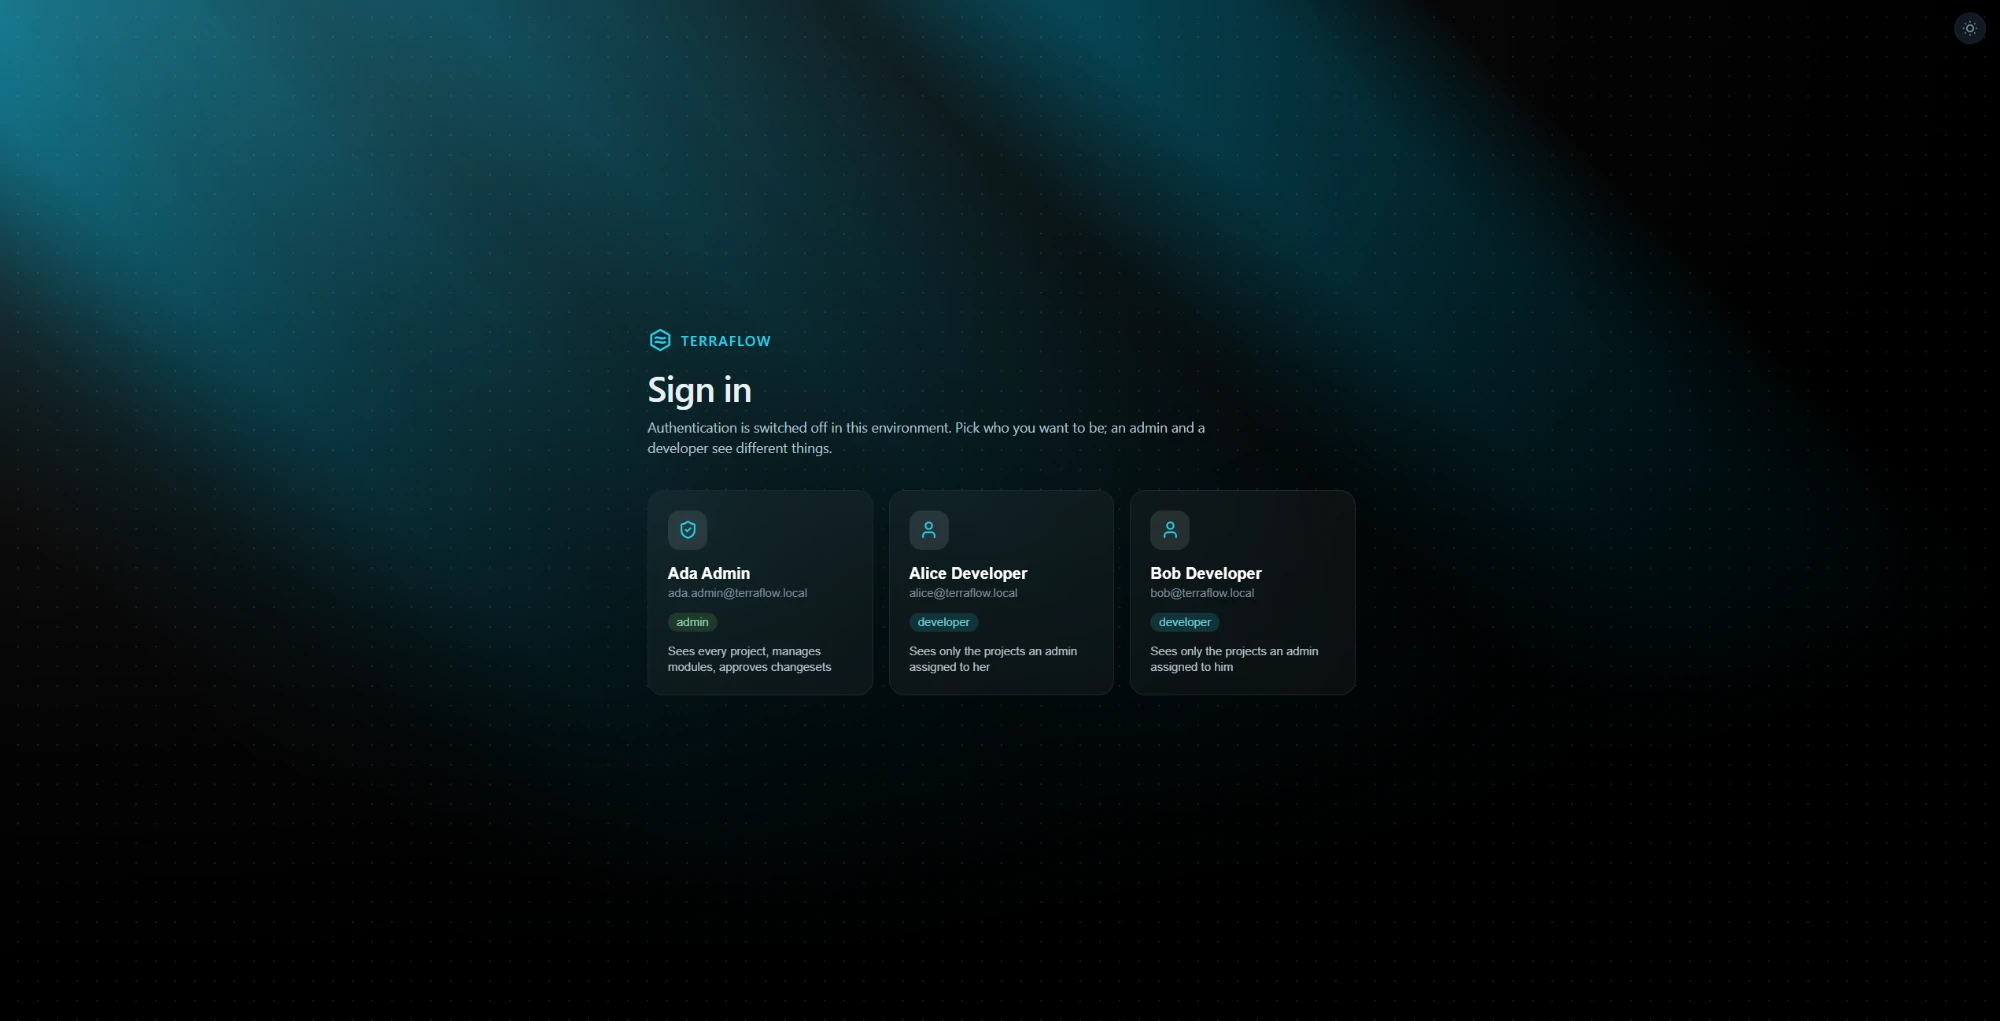
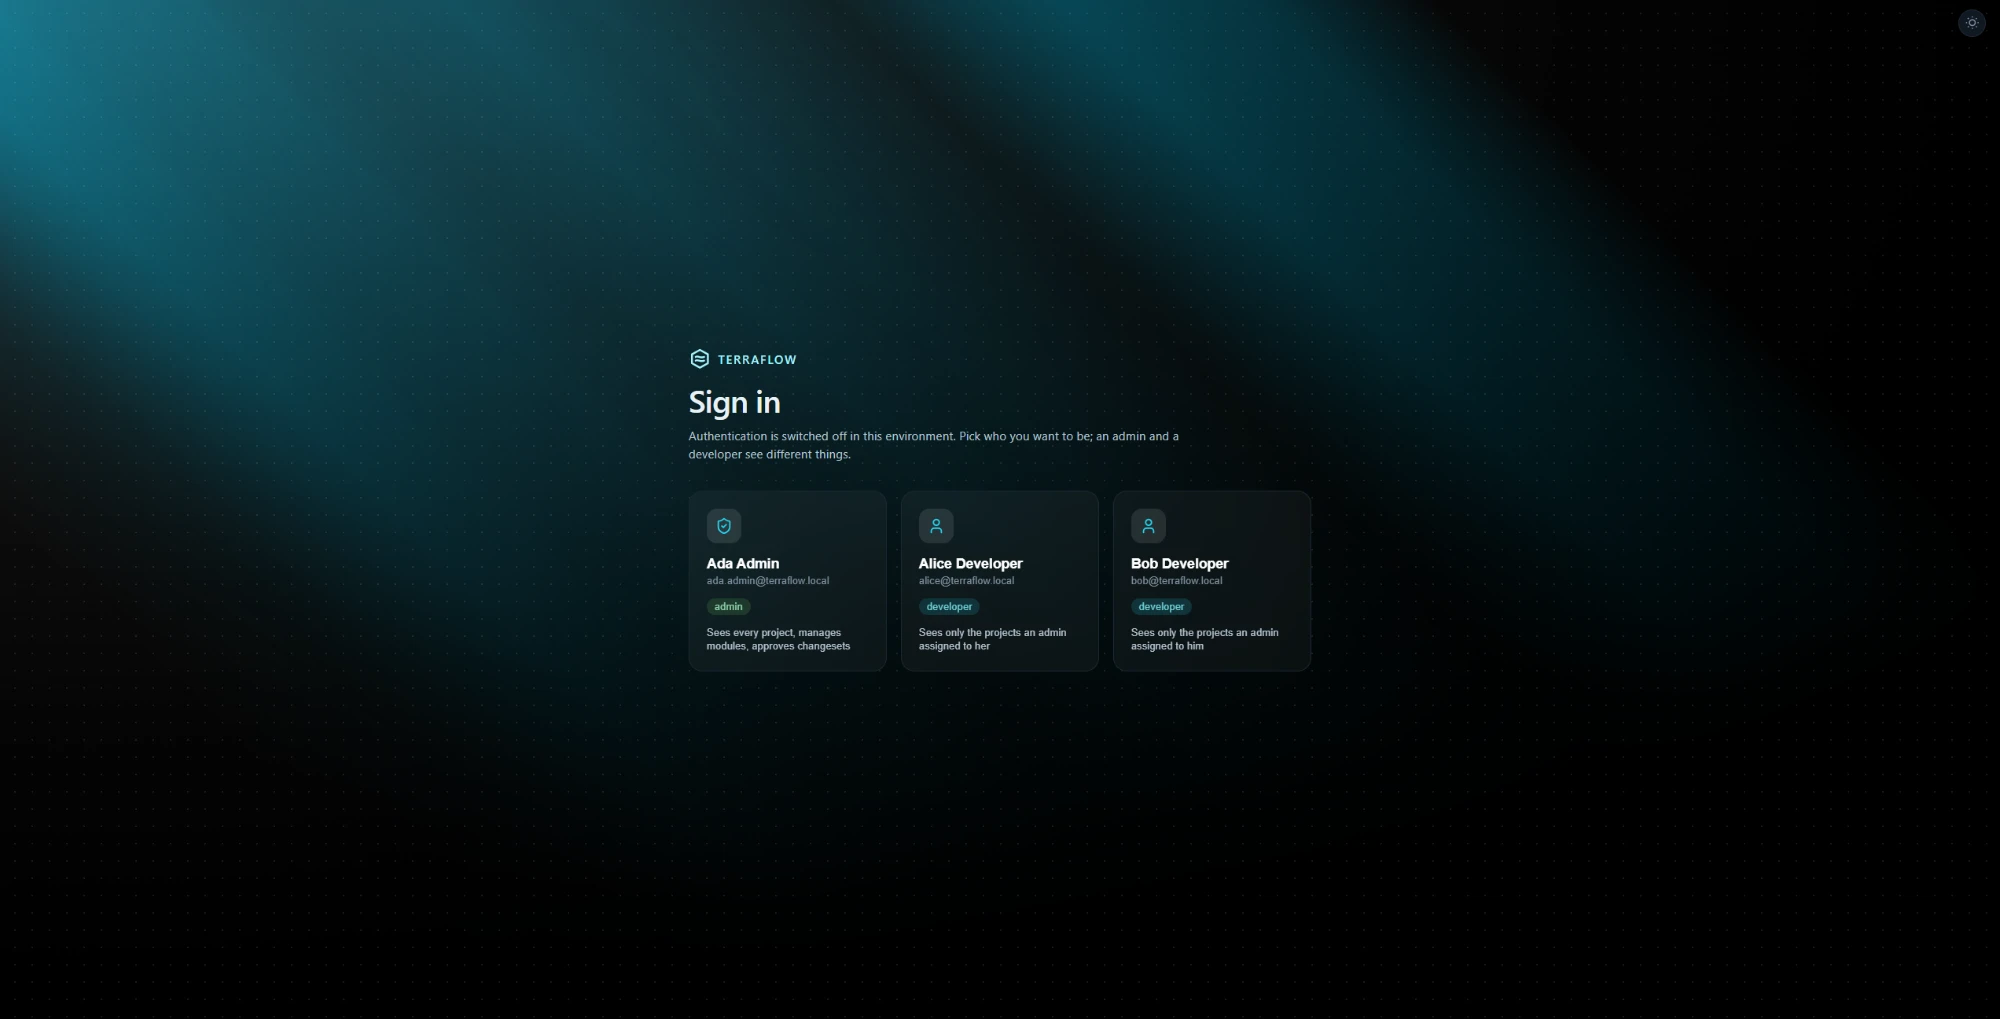
docs: refresh README and screenshots
New README with a workflow diagram, a grouped screen tour and the
current features; 19 screenshots replace the 7 old ones.

diff --git a/README.md b/README.md
@@ -1,55 +1,133 @@
+<div align="center">
+
 # TerraFlow
 
-A visual, drag-and-drop portal for Azure infrastructure. Developers compose
-resources from an **approved module catalog**, a DevOps reviewer approves, and
-TerraFlow generates Terraform **module calls** in the team's own style and opens a
-**branch** on the project's git repository (GitHub first, D-049).
+**Drag. Review. Branch.**<br>
+A visual portal that turns an approved module catalog into Terraform module calls, and stops at a branch.
 
-**The app's job ends at the branch.** The pull request, pipeline, plan and apply
-stay with DevOps in the git provider. TerraFlow never calls Azure and holds no write
-credentials.
+![Phase](https://img.shields.io/badge/phase-8%20%C2%B7%20GitHub-22d3ee?style=flat-square)
+![Go](https://img.shields.io/badge/Go-backend-00ADD8?style=flat-square&logo=go&logoColor=white)
+![React](https://img.shields.io/badge/React-TypeScript-61DAFB?style=flat-square&logo=react&logoColor=black)
+![Terraform](https://img.shields.io/badge/Terraform-module%20calls-844FBA?style=flat-square&logo=terraform&logoColor=white)
+![Azure first](https://img.shields.io/badge/azurerm-first%2C%20not%20hardcoded-0078D4?style=flat-square)
 
-## Project overview
+<br>
 
+<img src="docs/screenshots/04-canvas.webp" alt="The TerraFlow canvas: a module palette on the left, a resource group on the canvas, a schema-driven form on the right" width="900">
+
+</div>
+
+<br>
+
+## What it is
+
+People compose infrastructure from an **approved module catalog**. A reviewer (the project owner or a co-owner) approves.
+TerraFlow then writes Terraform **module calls** in the team's own style and opens a **branch** on the project's GitHub repository.
+
+> **The job ends at the branch.** The pull request, pipeline, plan and apply stay with the team in the git provider.
+> TerraFlow never calls Azure and holds no Azure credential.
+
+```mermaid
+flowchart LR
+    A["<b>Build</b><br/>drag modules onto the canvas,<br/>fill schema-driven forms"] --> B["<b>Save and publish</b><br/>a named version<br/>goes for review"]
+    B --> C{"<b>Review</b><br/>canvas changes and<br/>the exact .tf diff"}
+    C -- approve --> D["<b>Branch</b><br/>generated module calls<br/>on your repository"]
+    C -- "reject, with a reason" --> A
+    D --> E["PR, pipeline, plan, apply<br/><i>done by your team</i>"]
 ```
- Developer                    Reviewer (DevOps)               Git repository
- ─────────                    ─────────────────               ─────────────────
- drag modules onto            see canvas changes and          a branch with the
- the canvas, fill the   ──►   the exact .tf diff,       ──►   generated module calls;
- schema-driven forms          approve or reject               PR / pipeline are DevOps'
- Save a version, Publish      (with a reason)
-```
 
-| Idea | What it means |
+## Why it is built this way
+
+| | |
 |---|---|
-| **Schema-driven** | Every form is rendered from a module's `variables.tf` (as JSON Schema). Adding a module needs no UI code. |
-| **Module calls, not raw resources** | The generator writes `module "x" { source = … }` blocks, with a config-driven file layout. Raw provider resources exist only when a developer adds one explicitly, from a template an admin prepared. |
-| **Reads the repo, not Azure** | The existing resource inventory is built by parsing the `.tf` files; values that cannot be evaluated are shown as `unknown`, never as `0` or healthy. |
-| **Review before any branch** | One changeset waits for review per project; approving it creates the branch, rejecting it needs a reason. |
-| **Safe round trips** | Golden-file and round-trip tests make sure untouched bytes, including comments, stay exactly as they were. |
+| **Schema-driven** | Every form is drawn from a module's schema (`variables.tf` as JSON Schema). Adding a module needs no UI code. |
+| **Module calls, not raw resources** | The generator writes `module "x" { source = ... }`. A raw provider resource exists only when someone adds it on purpose, from a template an admin prepared. |
+| **Reads the repo, not Azure** | The existing inventory is parsed from your `.tf` files. A value that cannot be evaluated is shown as `unknown`, never as `0` or healthy. |
+| **Append-only generation** | New code is added to a file; lines already there stay byte for byte, comments included. Golden-file and round-trip tests keep that true. |
+| **Least privilege** | A GitHub App that can create a branch on one repository, with one-hour tokens that are never stored. No pasted personal tokens, no Azure access. |
+| **Review first** | One change waits for review per project. Approving creates the branch; rejecting needs a reason. |
 
-### Features
+## A tour
 
-- **Canvas** – existing resources of a project laid out by folder (React Flow + ELK), module catalog and raw resources in a side panel, nested boards (for example subnets inside a virtual network), and arrows between resources.
-- **Edit what already exists** – open a module call that is already in the repository; only the changed block is rewritten.
-- **Save and publish** – *Save* keeps a named version of your draft (Version 1, 2, …) while you keep working; *Publish* sends a saved version for review from the Changesets page.
-- **HCL preview** – a full-page, diff-coloured view of the files the changeset would create or change.
-- **Review** – approve (creates the branch) or reject (with a reason); separation of duties (a requester cannot approve their own changeset) is configurable.
-- **Admin** – module versions and schema import, raw resources, projects, members and users.
-- **Audit log** – saves, publishes, approvals, project and module changes.
+### Sign in and start a project
+
+Sign in with GitHub or Entra (a new person waits for approval, or is let in, by policy). A project is a GitHub repository and a folder; an empty repository can be initialised after a confirmation.
+
+<table>
+<tr>
+<td width="33%"><img src="docs/screenshots/01-sign-in.webp" alt="Sign in"><br><sub><b>Sign in.</b> The local login for development lists made-up users.</sub></td>
+<td width="33%"><img src="docs/screenshots/02-home.webp" alt="Home"><br><sub><b>Home.</b> Your projects, GitHub settings and, for admins, Administration.</sub></td>
+<td width="33%"><img src="docs/screenshots/03-new-project-github.webp" alt="New project from GitHub"><br><sub><b>New project.</b> Pick one of the repositories you can reach.</sub></td>
+</tr>
+</table>
+
+### Build, preview, review
+
+<table>
+<tr>
+<td width="50%"><img src="docs/screenshots/04-canvas.webp" alt="Canvas"><br><sub><b>Canvas.</b> A searchable palette with categories and a version for each module, nested boards, a form drawn from the schema, and the output file for each resource.</sub></td>
+<td width="50%"><img src="docs/screenshots/06-hcl-preview.webp" alt="HCL preview"><br><sub><b>HCL preview.</b> The files the change would add or edit, shown as a diff, with the touched resources on the right.</sub></td>
+</tr>
+<tr>
+<td width="50%"><img src="docs/screenshots/05-changesets.webp" alt="Changesets"><br><sub><b>Changesets.</b> Each saved version and where it stands: saved, awaiting review, approved or rejected.</sub></td>
+<td width="50%"><img src="docs/screenshots/07-review.webp" alt="Review"><br><sub><b>Review.</b> Canvas changes beside the Terraform changes. Approve creates the branch.</sub></td>
+</tr>
+</table>
+
+### Look after a project
+
+Team and settings are one page. Owners and co-owners decide who builds and who approves, and how the Terraform is written: which providers, where new resources go, variables and starter files.
+
+<table>
+<tr>
+<td width="50%"><img src="docs/screenshots/08-project-team.webp" alt="Project team"><br><sub><b>Team.</b> Roles, an optional second reviewer, and the project's cloud providers.</sub></td>
+<td width="50%"><img src="docs/screenshots/09-project-settings.webp" alt="Layout, variables and starter files"><br><sub><b>Layout, variables, starter files.</b> Write <code>{org}</code> in a field and the code uses <code>var.org</code>; <code>variables.tf</code> and <code>env/&lt;env&gt;.tfvars</code> are added for you.</sub></td>
+</tr>
+<tr>
+<td colspan="2" align="center"><img src="docs/screenshots/10-github-settings.webp" alt="GitHub settings" width="60%"><br><sub><b>GitHub.</b> Your connected accounts, refresh the repository list, choose which repositories the App may use. Nothing is kept: the list is read again each time.</sub></td>
+</tr>
+</table>
+
+### Administration
+
+For admins: the catalog, who may sign in, and every project at a glance. Each screen has a **Docs** button with a short walk-through for someone who has never used it.
+
+<table>
+<tr>
+<td width="50%"><img src="docs/screenshots/11-admin-modules.webp" alt="Modules"><br><sub><b>Modules.</b> The schemas people build from; a published version never changes, publish v2 instead.</sub></td>
+<td width="50%"><img src="docs/screenshots/13-admin-add-module.webp" alt="Add a module"><br><sub><b>Add a module.</b> Start from an example, upload or paste a schema, check it, publish.</sub></td>
+</tr>
+<tr>
+<td width="50%"><img src="docs/screenshots/14-admin-raw-resources.webp" alt="Raw resources"><br><sub><b>Raw resources.</b> Plain provider blocks for the one-off things no module covers.</sub></td>
+<td width="50%"><img src="docs/screenshots/16-admin-raw-form.webp" alt="New raw resource"><br><sub><b>New raw resource.</b> Category and the provider versions it exists in; the palette offers only what fits the project.</sub></td>
+</tr>
+<tr>
+<td width="50%"><img src="docs/screenshots/17-admin-projects.webp" alt="Projects"><br><sub><b>Projects.</b> Owner, repository, connection health and what waits for review.</sub></td>
+<td width="50%"><img src="docs/screenshots/18-admin-people.webp" alt="People and access"><br><sub><b>People and access.</b> Approve or suspend sign-ups.</sub></td>
+</tr>
+<tr>
+<td width="50%"><img src="docs/screenshots/19-admin-github-connections.webp" alt="GitHub connections"><br><sub><b>GitHub connections.</b> Each installation of the App, who connected it, how many projects use it.</sub></td>
+<td width="50%"><img src="docs/screenshots/12-admin-docs.webp" alt="Documentation page"><br><sub><b>Docs page.</b> "In one minute" first, the keys you always need before the full list, a Copy button on every sample.</sub></td>
+</tr>
+</table>
+
+<details>
+<summary>More: the raw resources documentation page</summary>
+<br>
+<img src="docs/screenshots/15-admin-raw-docs.webp" alt="Raw resources documentation" width="70%">
+</details>
+
+## Features
+
+- **Canvas**: the resources of a project laid out by folder (React Flow and ELK), nested boards such as subnets inside a virtual network, and arrows between resources.
+- **Palette**: search, category chips, the project's providers with logo and version, and a version choice for every module. Anything that does not fit the project's provider or version is hidden.
+- **Edit what exists**: open a module call already in the repository; only the changed block is rewritten.
+- **Variables and files**: declare `org = aic` once; generated code uses `var.org`, with `variables.tf`, `env/<env>.tfvars`, `providers.tf` and starter files such as `backend.tf`.
+- **Save and publish**: *Save* keeps a named version of your draft while you keep working; *Publish* sends one for review.
+- **Review**: approve (creates the branch) or reject (with a reason); a second reviewer can be required.
+- **Roles**: owner, co-owner and contributor per project; a global admin for the catalog and people.
+- **Audit log**: saves, publishes, approvals, project and module changes.
 - **Light and dark** themes.
-
-### Screenshots
-
-| Screenshot |
-|:---:|
-| ![Sign in](docs/screenshots/01-sign-in.webp)<br>**Sign in** – local development login, pick a made-up user. |
-| ![Home](docs/screenshots/02-home.webp)<br>**Home** – projects, plus Administration for admins. |
-| ![Canvas](docs/screenshots/03-canvas.webp)<br>**Canvas** – module catalog, folders and nested boards, schema-driven form. |
-| ![HCL preview](docs/screenshots/04-hcl-preview.webp)<br>**HCL preview** – generated module call shown as a diff. |
-| ![Review](docs/screenshots/05-review.webp)<br>**Review** – canvas changes, Terraform changes, Approve or Reject. |
-| ![Admin](docs/screenshots/06-admin.webp)<br>**Admin** – module versions and schema import. |
-| ![Audit log](docs/screenshots/07-audit-log.webp)<br>**Audit log** – everything done in TerraFlow. |
 
 ## Tech stack
 
@@ -58,7 +136,7 @@ credentials.
 | Backend | Go, chi + `net/http`, `hashicorp/hcl/v2` (parse + `hclwrite`), pgx, goose migrations |
 | Frontend | React, TypeScript, Vite, React Flow, ELK, Tailwind |
 | Database | PostgreSQL (Entra passwordless in production) |
-| Auth | Entra ID (OIDC) with a server-side session; a local sign-in for development |
+| Auth | Entra ID (OIDC) and GitHub sign-in with a server-side session; a local sign-in for development |
 | Deploy | Not decided yet. A Docker image and a Helm chart for a local cluster exist |
 
 ## Repository layout
@@ -111,7 +189,7 @@ Contributors and coding agents: see [CLAUDE.md](CLAUDE.md) (it is the contributi
 
 ## Status
 
-Working local build: Phases 1–7 are done against `samples/` and a local repository.
-Phase 8 (GitHub, user-owned projects, sign-in with GitHub and Entra, D-049 and D-050) is built
-through M2 and tested against a fake GitHub; it has not yet run against real GitHub, and M3
-(flexible catalog, schema editor) is next. See [docs/03-phases.md](docs/03-phases.md).
+Phases 1-7 are done against `samples/` and a local repository. Phase 8 (GitHub, user-owned projects,
+sign-in with GitHub and Entra, D-049 and D-050) is built through M2 and tested against a fake GitHub;
+it has not yet run against real GitHub, and M3 (flexible catalog, schema editor) is next.
+See [docs/03-phases.md](docs/03-phases.md). Hosting is not decided.
